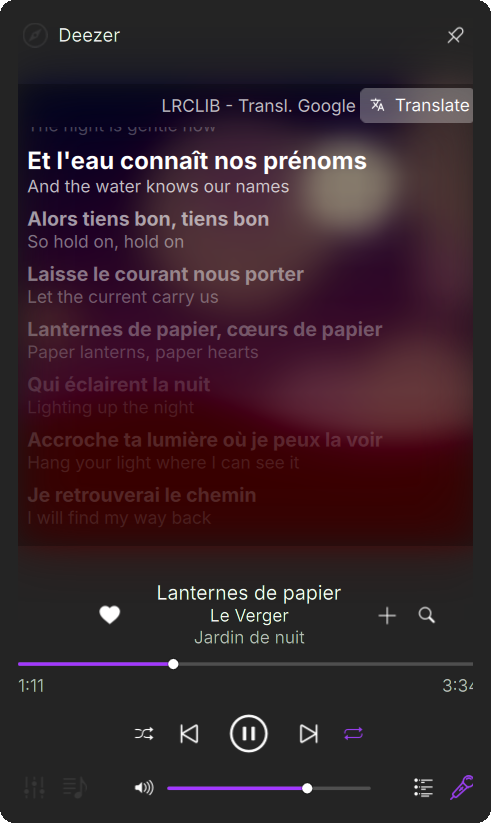
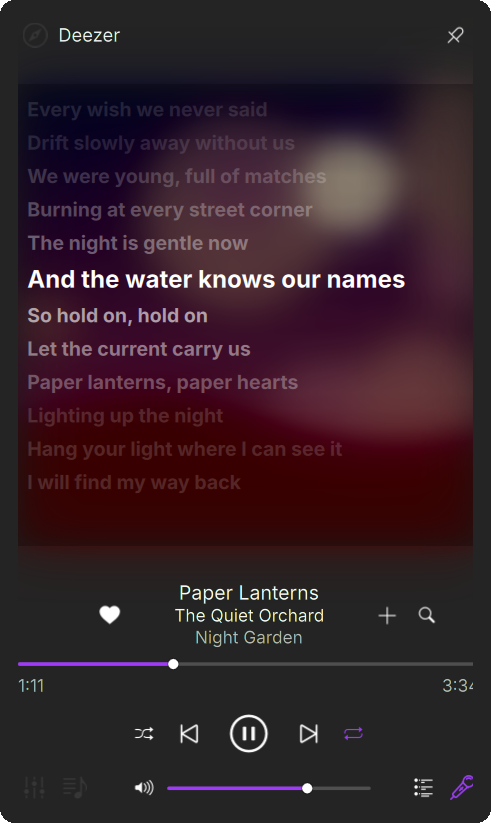
Screenshots: lyrics without a translation

Changed region(s): [[0.0305, 0.0911, 0.9776, 0.6379], [0.3055, 0.6987, 0.7026, 0.7898]]

diff --git a/README.md b/README.md
@@ -7,7 +7,7 @@ This one is for Deezer: it runs Deezer's official web player in its own
 Chromium profile (Qt WebEngine), out of sight, and shows the player, the queue
 and the lyrics in native Plasma controls.
 
-![The player, the lyrics with their translation, and the queue](screenshots/overview.png)
+![The player, the lyrics and the queue](screenshots/overview.png)
 
 The track, covers and lyrics in these screenshots are made up.
 
